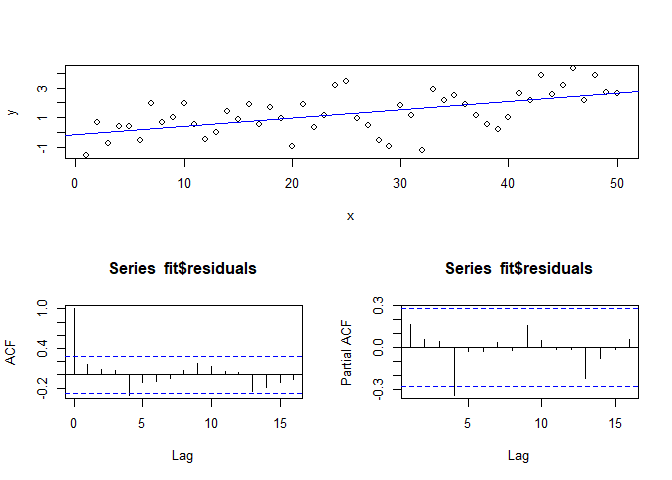
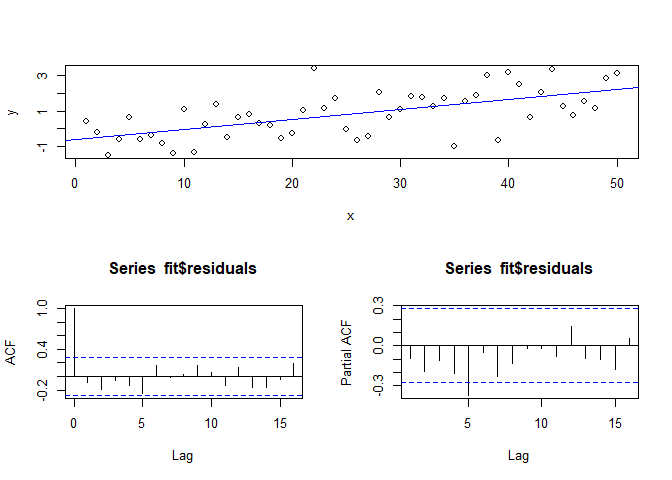
Refactoring: generating several iterations of data at once

diff --git a/src/2022-03-08_newey-west-heteroskedasticity-and-autocorrelation-robust-errors.md b/src/2022-03-08_newey-west-heteroskedasticity-and-autocorrelation-robust-errors.md
@@ -155,32 +155,32 @@ summary(fit) # standard estimates
     ## 
     ## Residuals:
     ##      Min       1Q   Median       3Q      Max 
-    ## -2.91014 -0.76395  0.07692  0.75766  2.19645 
+    ## -2.33544 -0.73963  0.06635  0.70760  2.75413 
     ## 
     ## Coefficients:
     ##             Estimate Std. Error t value Pr(>|t|)    
-    ## (Intercept) -0.12785    0.33539  -0.381    0.705    
-    ## x            0.05591    0.01145   4.884 1.19e-05 ***
+    ## (Intercept) -0.61276    0.29923  -2.048   0.0461 *  
+    ## x            0.05600    0.01021   5.483 1.53e-06 ***
     ## ---
     ## Signif. codes:  0 '***' 0.001 '**' 0.01 '*' 0.05 '.' 0.1 ' ' 1
     ## 
-    ## Residual standard error: 1.168 on 48 degrees of freedom
-    ## Multiple R-squared:  0.332,  Adjusted R-squared:  0.3181 
-    ## F-statistic: 23.86 on 1 and 48 DF,  p-value: 1.195e-05
+    ## Residual standard error: 1.042 on 48 degrees of freedom
+    ## Multiple R-squared:  0.3851, Adjusted R-squared:  0.3723 
+    ## F-statistic: 30.07 on 1 and 48 DF,  p-value: 1.527e-06
 
 ``` r
 coeftest(fit, vcov = NeweyWest(fit, verbose = T))
 ```
 
     ## 
-    ## Lag truncation parameter chosen: 2
+    ## Lag truncation parameter chosen: 8
 
     ## 
     ## t test of coefficients:
     ## 
-    ##              Estimate Std. Error t value  Pr(>|t|)    
-    ## (Intercept) -0.127849   0.241914 -0.5285    0.5996    
-    ## x            0.055908   0.010307  5.4240 1.876e-06 ***
+    ##               Estimate Std. Error t value  Pr(>|t|)    
+    ## (Intercept) -0.6127589  0.1296910 -4.7248 2.044e-05 ***
+    ## x            0.0559995  0.0042046 13.3186 < 2.2e-16 ***
     ## ---
     ## Signif. codes:  0 '***' 0.001 '**' 0.01 '*' 0.05 '.' 0.1 ' ' 1
 
@@ -211,18 +211,18 @@ summary(fit_arima)
     ## Regression with ARIMA(0,0,0) errors 
     ## 
     ## Coefficients:
-    ##         xreg
-    ##       0.0521
-    ## s.e.  0.0055
+    ##       intercept   xreg
+    ##         -0.6128  0.056
+    ## s.e.     0.2932  0.010
     ## 
-    ## sigma^2 = 1.341:  log likelihood = -77.77
-    ## AIC=159.54   AICc=159.79   BIC=163.36
+    ## sigma^2 = 1.086:  log likelihood = -71.99
+    ## AIC=149.98   AICc=150.5   BIC=155.71
     ## 
     ## Training set error measures:
-    ##                      ME    RMSE       MAE       MPE     MAPE      MASE
-    ## Training set -0.0310128 1.14617 0.8927144 -40.77468 148.9858 0.7262621
-    ##                   ACF1
-    ## Training set 0.1613632
+    ##                        ME     RMSE       MAE      MPE    MAPE      MASE
+    ## Training set 5.224156e-14 1.021065 0.8298999 91.17292 124.853 0.6877414
+    ##                     ACF1
+    ## Training set -0.09153191
 
 # 5 Example 2: Autocorrelated error
 
